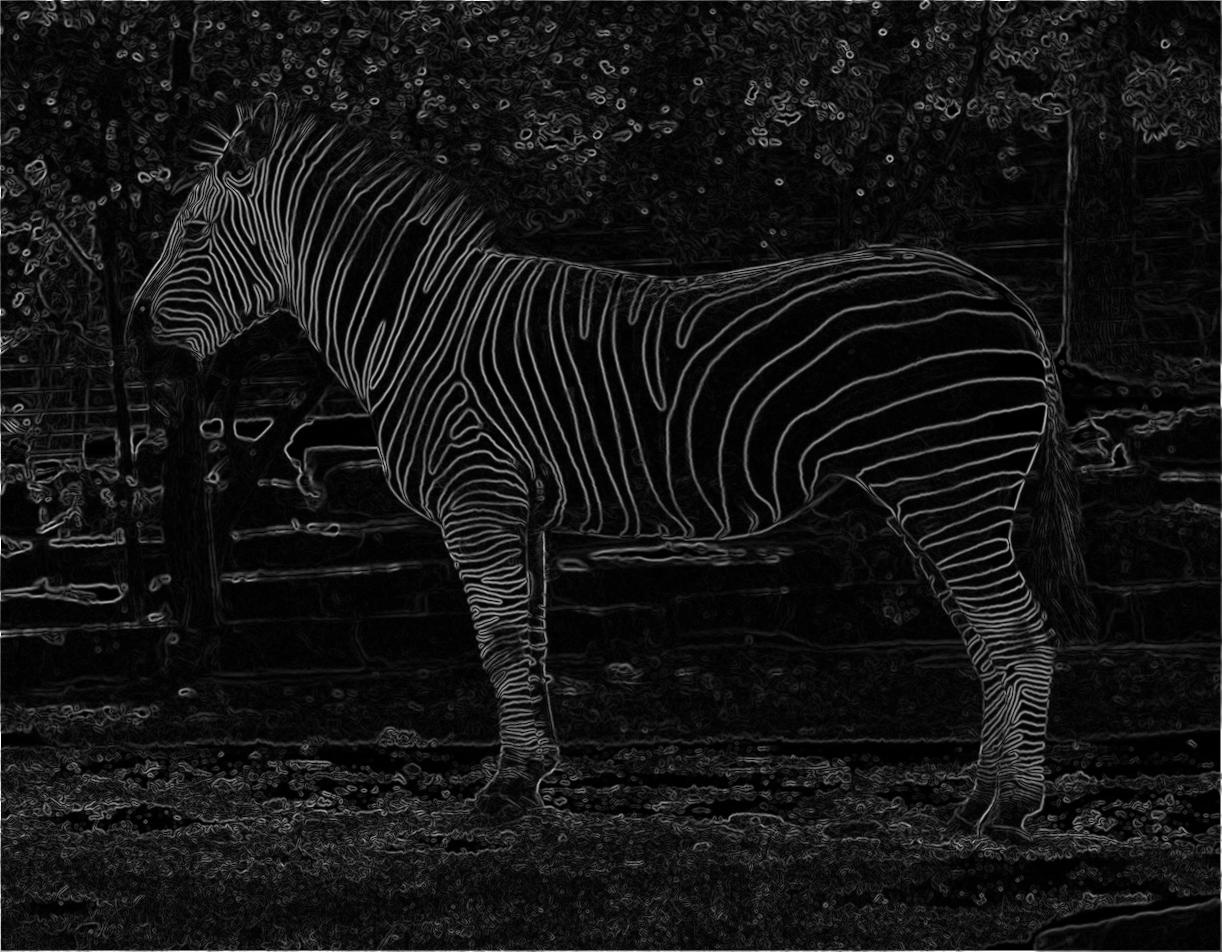
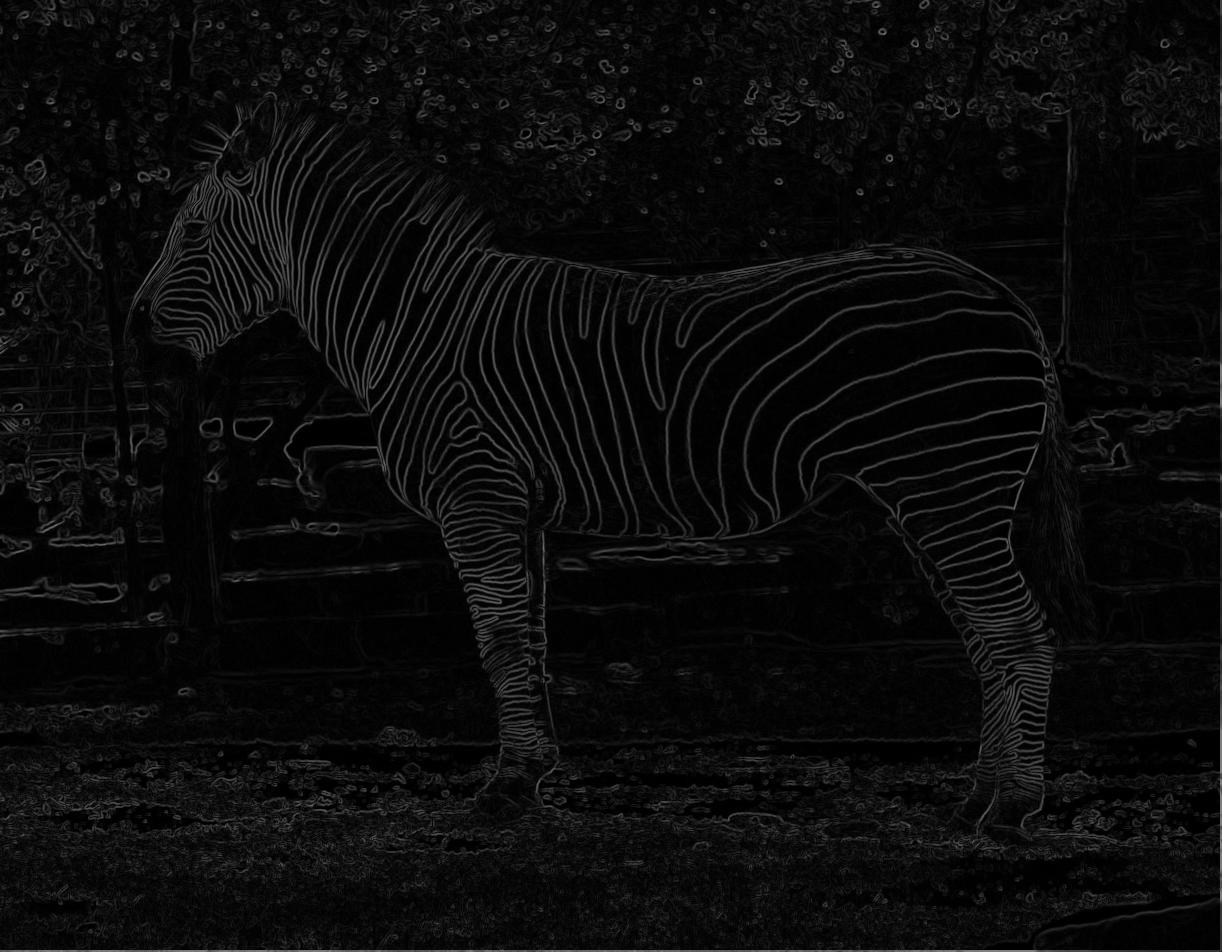
improved problem 7 after class on derivative filters

diff --git a/Homework2/prob7script.m b/Homework2/prob7script.m
@@ -13,13 +13,7 @@ imagesc(filteredImageData);
 colorbar
 title('Filtered Image');
 
-derivImageData = imageData-filteredImageData;
-figure
-imagesc(derivImageData);
-colorbar
-title('Laplacian Image');
-
-horizDerivFilter = [-1 0 1];
+horizDerivFilter = [1 -1];
 horizDerivImage = conv2(filteredImageData,horizDerivFilter,'same');
 figure
 imagesc(horizDerivImage);
